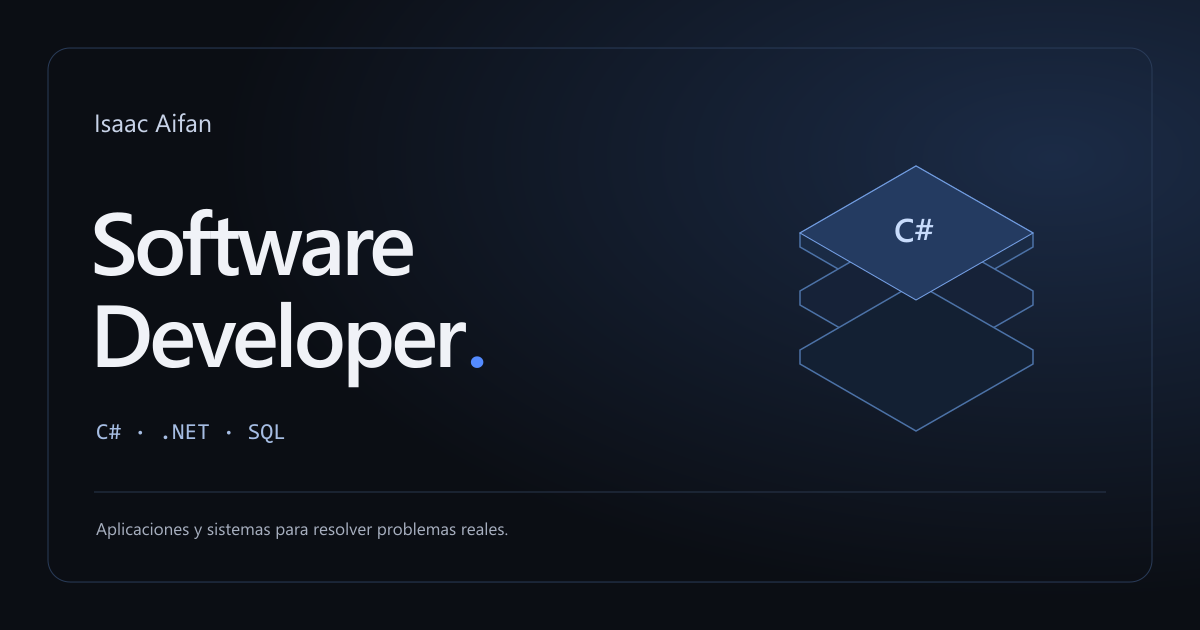
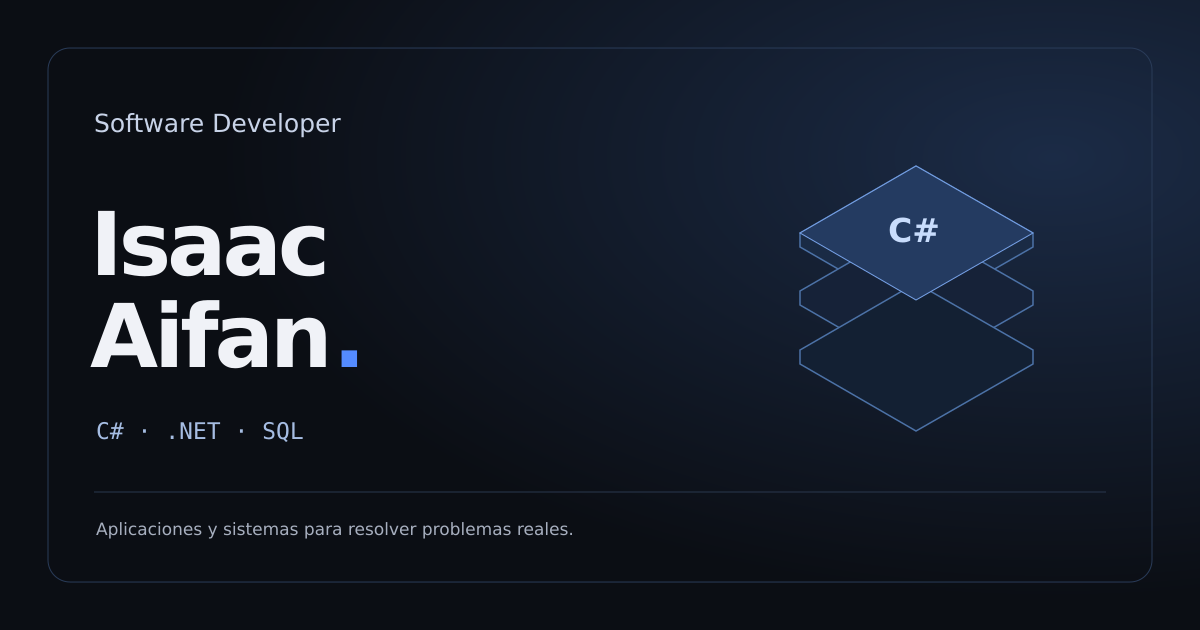
feat: refresh project states, highlight name and add ResellManager screenshots

diff --git a/index.html b/index.html
@@ -58,8 +58,9 @@
         <div class="hero-main">
           <div class="hero-copy">
             <p class="availability"><span class="status-dot" aria-hidden="true"></span> Disponible para oportunidades junior</p>
-            <p class="hero-intro">Hola, soy <strong>Isaac Aifan</strong></p>
-            <h1 id="hero-title">Software<br>Developer<span class="accent">.</span></h1>
+            <p class="hero-intro">Hola, soy</p>
+            <h1 id="hero-title">Isaac<br><span class="hero-surname">Aifan<span class="accent">.</span></span></h1>
+            <p class="hero-role">Software Developer</p>
             <p class="hero-stack">C# <span>·</span> .NET <span>·</span> SQL <span class="stack-divider" aria-hidden="true"></span><span class="stack-caption">Aplicaciones y sistemas</span></p>
             <p class="hero-description">Desarrollo aplicaciones y sistemas para resolver problemas reales. Me interesa lo que sucede detrás de la interfaz: el backend, la arquitectura y la automatización.</p>
             <div class="hero-actions">
@@ -93,27 +94,36 @@
 
         <article class="project-card project-featured reveal" aria-labelledby="resell-title" data-spotlight>
           <div class="featured-copy">
-            <div class="project-topline"><span class="project-kicker">PROYECTO PRINCIPAL</span><span class="badge badge-blue"><span class="status-dot" aria-hidden="true"></span> V1 en producción</span></div>
+            <div class="project-topline"><span class="project-kicker">PROYECTO PRINCIPAL</span><span class="badge badge-blue"><span class="status-dot" aria-hidden="true"></span> V1.4 en producción</span></div>
             <h3 id="resell-title">ResellManager<span class="accent">.</span></h3>
-            <p class="project-summary">Una plataforma para llevar el control de un negocio de reventa, desde la compra del producto hasta el cobro de la venta.</p>
+            <p class="project-summary">Una plataforma para gestionar un negocio de reventa, desde la compra hasta el cobro, con un catálogo público que conecta la operación con Virtuosa Store.</p>
             <div class="project-problem"><span class="meta-label">EL PROBLEMA</span><p>Centralizar productos, inventario, clientes y cuentas por cobrar para gestionar la operación comercial en un solo lugar.</p></div>
             <ul class="feature-list">
               <li><svg class="icon" aria-hidden="true"><use href="assets/icons/sprite.svg#check"></use></svg> Compras, recepción e inventario</li>
               <li><svg class="icon" aria-hidden="true"><use href="assets/icons/sprite.svg#check"></use></svg> Pedidos, reservas, ventas y pagos</li>
-              <li><svg class="icon" aria-hidden="true"><use href="assets/icons/sprite.svg#check"></use></svg> Autenticación privada y dashboard operativo</li>
+              <li><svg class="icon" aria-hidden="true"><use href="assets/icons/sprite.svg#check"></use></svg> Scanner de códigos de barras y alta asistida de productos</li>
+              <li><svg class="icon" aria-hidden="true"><use href="assets/icons/sprite.svg#check"></use></svg> Catálogo público, galería con zoom y filtros por categoría y marca</li>
             </ul>
-            <ul class="tech-tags" aria-label="Tecnologías de ResellManager"><li>C#</li><li>.NET 8</li><li>Blazor</li><li>EF Core</li><li>SQLite</li></ul>
+            <ul class="tech-tags" aria-label="Tecnologías de ResellManager"><li>C#</li><li>.NET 10</li><li>Blazor</li><li>EF Core</li><li>SQLite</li></ul>
             <div class="project-links">
               <a class="text-link" href="https://github.com/newton0608/ResellManager" target="_blank" rel="noopener noreferrer" aria-label="Ver repositorio de ResellManager, abre una pestaña nueva"><svg class="icon" aria-hidden="true"><use href="assets/icons/sprite.svg#github"></use></svg> Ver repositorio <svg class="icon" aria-hidden="true"><use href="assets/icons/sprite.svg#arrow-up-right"></use></svg></a>
-              <span class="project-note">Acceso privado a la aplicación</span>
-              <!-- TODO: añadir una demo pública cuando exista; no enlazar al entorno privado de producción. -->
+              <a class="text-link" href="https://virtuosagt.com/" target="_blank" rel="noopener noreferrer" aria-label="Ver el catálogo público de Virtuosa Store, abre una pestaña nueva">Ver catálogo <svg class="icon" aria-hidden="true"><use href="assets/icons/sprite.svg#arrow-up-right"></use></svg></a>
+              <span class="project-note">Administración privada · catálogo público</span>
             </div>
           </div>
-          <figure class="featured-preview">
-            <!-- TODO: sustituir por una captura real de ResellManager, sin datos de clientes. -->
-            <div class="featured-image-wrap"><img src="assets/images/resellmanager-preview.svg" alt="Vista conceptual del inventario de ResellManager. No es una captura de la aplicación." width="1080" height="900" loading="lazy" decoding="async"></div>
-            <figcaption><span class="preview-dot" aria-hidden="true"></span> Vista conceptual <span>Captura real pendiente</span></figcaption>
-          </figure>
+          <div class="featured-gallery" role="group" aria-label="Capturas reales de ResellManager">
+            <figure class="screenshot-frame">
+              <div class="browser-bar" aria-hidden="true"><span class="browser-dots"><i></i><i></i><i></i></span><span>virtuosagt.com · catálogo</span><svg class="icon"><use href="assets/icons/sprite.svg#lock"></use></svg></div>
+              <a class="screenshot-link" href="assets/images/resellmanager-catalogo.webp" target="_blank" rel="noopener noreferrer" aria-label="Ampliar captura del catálogo de ResellManager, abre una pestaña nueva"><img src="assets/images/resellmanager-catalogo.webp" alt="Catálogo real de Virtuosa Store en ResellManager, con filtros de categoría, marca y subcategorías y tarjetas de productos." width="1348" height="926" loading="lazy" decoding="async"></a>
+              <figcaption><span>Catálogo público · filtros y productos</span><span>Ampliar ↗</span></figcaption>
+            </figure>
+            <figure class="screenshot-frame">
+              <div class="browser-bar" aria-hidden="true"><span class="browser-dots"><i></i><i></i><i></i></span><span>virtuosagt.com · detalle de producto</span><svg class="icon"><use href="assets/icons/sprite.svg#lock"></use></svg></div>
+              <a class="screenshot-link" href="assets/images/resellmanager-detalle.webp" target="_blank" rel="noopener noreferrer" aria-label="Ampliar captura del detalle de producto de ResellManager, abre una pestaña nueva"><img src="assets/images/resellmanager-detalle.webp" alt="Detalle real de un producto en Virtuosa Store, con fotografía, disponibilidad, descripción y datos de presentación." width="1348" height="926" loading="lazy" decoding="async"></a>
+              <figcaption><span>Detalle de producto · imagen y disponibilidad</span><span>Ampliar ↗</span></figcaption>
+            </figure>
+            <p class="gallery-note">Capturas reales del catálogo de ResellManager · <time datetime="2026-10-13">13 oct 2026</time></p>
+          </div>
         </article>
 
         <div class="projects-grid">
@@ -124,13 +134,13 @@
               <figcaption class="image-caption">Captura del sitio publicado</figcaption>
             </figure>
             <div class="secondary-copy">
-              <div class="project-topline"><span class="project-kicker">WEB INSTITUCIONAL</span><span class="badge">Publicado</span></div>
+              <div class="project-topline"><span class="project-kicker">WEB INSTITUCIONAL</span><span class="badge badge-green">Publicado · activo</span></div>
               <h3 id="church-title">Iglesia de Cristo<br>Palabra Viva y Eficaz</h3>
               <p class="project-summary">Un sitio real, publicado y utilizado, que acerca horarios, transmisiones y discipulado a su comunidad desde cualquier dispositivo.</p>
               <ul class="feature-list">
                 <li><svg class="icon" aria-hidden="true"><use href="assets/icons/sprite.svg#check"></use></svg> Contenido dinámico y próxima reunión automática</li>
                 <li><svg class="icon" aria-hidden="true"><use href="assets/icons/sprite.svg#check"></use></svg> Integración con YouTube Data API</li>
-                <li><svg class="icon" aria-hidden="true"><use href="assets/icons/sprite.svg#check"></use></svg> Diseño responsive, dominio y despliegue en GitHub Pages</li>
+                <li><svg class="icon" aria-hidden="true"><use href="assets/icons/sprite.svg#check"></use></svg> Diseño responsive, dominio propio y mantenimiento continuo</li>
               </ul>
               <ul class="tech-tags" aria-label="Tecnologías del sitio de la iglesia"><li>HTML5</li><li>Tailwind CSS</li><li>JavaScript</li><li>APIs</li></ul>
               <div class="project-links">
@@ -153,9 +163,9 @@
               <ul class="feature-list">
                 <li><svg class="icon" aria-hidden="true"><use href="assets/icons/sprite.svg#check"></use></svg> Árboles ABB y AVL, búsquedas y recorridos</li>
                 <li><svg class="icon" aria-hidden="true"><use href="assets/icons/sprite.svg#check"></use></svg> Gestores de departamentos y municipios</li>
-                <li><svg class="icon" aria-hidden="true"><use href="assets/icons/sprite.svg#check"></use></svg> Arquitectura por capas y base de interfaz WPF</li>
+                <li><svg class="icon" aria-hidden="true"><use href="assets/icons/sprite.svg#check"></use></svg> Visualizador de árboles en WPF con zoom y desplazamiento</li>
               </ul>
-              <p class="project-note development-note">Interfaz, rutas y grafos: trabajo en desarrollo.</p>
+              <p class="project-note development-note">Visualizador implementado; integración de interfaz, rutas y grafos en desarrollo.</p>
               <ul class="tech-tags" aria-label="Tecnologías de TreeRoteGT"><li>C#</li><li>.NET 8</li><li>WPF</li><li>Algoritmos</li></ul>
               <div class="project-links">
                 <a class="text-link" href="mailto:isaac06gt@icloud.com?subject=Consulta%20sobre%20TreeRoteGT">Consultar proyecto <svg class="icon" aria-hidden="true"><use href="assets/icons/sprite.svg#arrow-up-right"></use></svg></a>
@@ -168,14 +178,26 @@
         <div class="other-projects reveal">
           <div class="other-projects-heading"><h3>Otros proyectos</h3><a class="text-link text-link-muted" href="https://github.com/newton0608?tab=repositories" target="_blank" rel="noopener noreferrer" aria-label="Explorar repositorios de GitHub, abre una pestaña nueva">Explorar GitHub <svg class="icon" aria-hidden="true"><use href="assets/icons/sprite.svg#arrow-up-right"></use></svg></a></div>
           <div class="other-projects-grid">
+            <article class="small-project">
+              <span class="small-project-icon" aria-hidden="true"><svg class="icon"><use href="assets/icons/sprite.svg#network"></use></svg></span>
+              <div><h4>DeployManager</h4><span class="small-project-status">Motor implementado</span><p>Motor para desplegar proyectos Git/Docker en un VPS, con CLI, API local, historial, comprobación de salud y rollback.</p><span class="small-project-stack">Python · FastAPI · SQLite · Docker</span><a class="text-link text-link-muted" href="mailto:isaac06gt@icloud.com?subject=Consulta%20sobre%20DeployManager">Consultar proyecto <svg class="icon" aria-hidden="true"><use href="assets/icons/sprite.svg#arrow-up-right"></use></svg></a></div>
+            </article>
+            <article class="small-project">
+              <span class="small-project-icon" aria-hidden="true"><svg class="icon"><use href="assets/icons/sprite.svg#desktop"></use></svg></span>
+              <div><h4>Atril</h4><span class="small-project-status">En validación</span><p>Aplicación de escritorio para el pastor: preview de OBS, chat de Social Stream, viewers de Streamlabs y tiempo real de transmisión.</p><span class="small-project-stack">Electron · React · TypeScript · OBS WebSocket</span><a class="text-link text-link-muted" href="mailto:isaac06gt@icloud.com?subject=Consulta%20sobre%20Atril">Consultar proyecto <svg class="icon" aria-hidden="true"><use href="assets/icons/sprite.svg#arrow-up-right"></use></svg></a></div>
+            </article>
+            <article class="small-project">
+              <span class="small-project-icon" aria-hidden="true"><svg class="icon"><use href="assets/icons/sprite.svg#video"></use></svg></span>
+              <div><h4>StreamConsole</h4><span class="small-project-status">Demo funcional · validación física pendiente</span><p>Consola local con macros e integraciones de OBS, ATEM y Holyrics, con control adaptado a un iPhone 5s.</p><span class="small-project-stack">C# · .NET 8 · API REST · SSE</span><a class="text-link text-link-muted" href="mailto:isaac06gt@icloud.com?subject=Consulta%20sobre%20StreamConsole">Consultar proyecto <svg class="icon" aria-hidden="true"><use href="assets/icons/sprite.svg#arrow-up-right"></use></svg></a></div>
+            </article>
             <a class="small-project" href="https://github.com/newton0608/502FerreSA" target="_blank" rel="noopener noreferrer" aria-label="Ver repositorio de Ferre502SA, abre una pestaña nueva">
               <span class="small-project-icon" aria-hidden="true"><svg class="icon"><use href="assets/icons/sprite.svg#desktop"></use></svg></span>
-              <div><h4>Ferre502SA</h4><p>Sistema de escritorio para una ferretería, con inventarios, ventas y envíos.</p><span class="small-project-stack">C# · WinForms · SQL Server</span></div>
+              <div><h4>Ferre502SA</h4><span class="small-project-status">Proyecto académico</span><p>Sistema de escritorio para una ferretería, con inventarios, ventas y envíos.</p><span class="small-project-stack">C# · WinForms · SQL Server</span></div>
               <svg class="icon small-project-arrow" aria-hidden="true"><use href="assets/icons/sprite.svg#arrow-up-right"></use></svg>
             </a>
             <a class="small-project" href="https://github.com/newton0608/currency-converter" target="_blank" rel="noopener noreferrer" aria-label="Ver repositorio de Currency Converter, abre una pestaña nueva">
               <span class="small-project-icon" aria-hidden="true"><svg class="icon"><use href="assets/icons/sprite.svg#exchange"></use></svg></span>
-              <div><h4>Currency Converter</h4><p>Conversor de monedas con tasas de una API, en consola y con interfaz gráfica.</p><span class="small-project-stack">Python · Tkinter · API REST</span></div>
+              <div><h4>Currency Converter</h4><span class="small-project-status">Implementado</span><p>Conversor de monedas con tasas de una API, en consola y con interfaz gráfica.</p><span class="small-project-stack">Python · Tkinter · API REST</span></div>
               <svg class="icon small-project-arrow" aria-hidden="true"><use href="assets/icons/sprite.svg#arrow-up-right"></use></svg>
             </a>
           </div>
@@ -210,9 +232,9 @@
         </div>
         <div class="technology-groups reveal">
           <div class="technology-group"><h3>Desktop</h3><ul><li>WPF</li><li>WinForms</li></ul></div>
-          <div class="technology-group"><h3>Web</h3><ul><li>HTML5</li><li>CSS3</li><li>JavaScript</li><li>ASP.NET</li></ul></div>
+          <div class="technology-group"><h3>Web</h3><ul><li>HTML5</li><li>CSS3</li><li>JavaScript</li><li>ASP.NET</li><li>Blazor</li><li>React / TypeScript</li></ul></div>
           <div class="technology-group"><h3>Datos</h3><ul><li>SQL Server</li><li>PostgreSQL</li><li>SQLite</li></ul></div>
-          <div class="technology-group"><h3>Herramientas</h3><ul><li>Git / GitHub</li><li>Visual Studio</li><li>APIs REST</li><li>Linux / VPS</li><li>Hosting y dominios</li></ul></div>
+          <div class="technology-group"><h3>Herramientas</h3><ul><li>Git / GitHub</li><li>Visual Studio</li><li>APIs REST</li><li>Linux / VPS</li><li>Docker / Compose</li><li>Hosting y dominios</li></ul></div>
         </div>
         <p class="additional-tech reveal"><span>También trabajo y aprendo con</span> C++ <span class="accent" aria-hidden="true">/</span> Python</p>
       </section>

diff --git a/css/styles.css b/css/styles.css
@@ -57,7 +57,7 @@ main:focus { outline: none; }
 .brand { display: inline-flex; align-items: center; gap: 12px; flex-shrink: 0; }
 .brand-mark { display: inline-flex; align-items: center; justify-content: center; width: 36px; height: 36px; border: 1px solid #344567; background: #121c2d; border-radius: 10px; font-size: 23px; font-weight: 800; letter-spacing: -1.8px; line-height: 1; }
 .brand-mark span { color: var(--accent); }
-.brand-name { font-size: 14px; font-weight: 650; letter-spacing: -.3px; }
+.brand-name { font-size: 17px; font-weight: 750; letter-spacing: -.3px; }
 .nav-menu { display: flex; align-items: center; gap: 28px; }
 .nav-link { display: inline-flex; align-items: center; gap: 12px; min-height: 44px; font-size: 12px; color: var(--text-secondary); transition: color var(--transition); }
 .nav-link:hover, .nav-link.is-active { color: var(--text); }
@@ -102,8 +102,9 @@ h2 { font-size: clamp(32px, 3.55vw, 46px); font-weight: 650; letter-spacing: -1.
 .hero-main { display: grid; grid-template-columns: 1.13fr 1fr; align-items: center; gap: 26px; padding-bottom: 64px; }
 .availability { display: inline-flex; align-items: center; gap: 10px; border: 1px solid #29374e; background: #101824; border-radius: 30px; padding: 7px 13px; color: #b3c1d8; font-size: 10px; letter-spacing: .15px; margin-bottom: 35px; }
 .hero-intro { font-size: 15px; color: var(--text-secondary); margin-bottom: 15px; }
-.hero-intro strong { font-weight: 650; color: var(--text); }
-h1 { font-size: clamp(58px, 6.7vw, 88px); font-weight: 750; line-height: 1.05; letter-spacing: -4.7px; margin-left: -4px; }
+.hero-surname { color: var(--accent-light); }
+.hero-role { margin-top: 20px; font-size: clamp(23px, 2.6vw, 32px); font-weight: 600; line-height: 1.25; letter-spacing: -.9px; color: var(--text-secondary); }
+h1 { font-size: clamp(68px, 7.7vw, 104px); font-weight: 750; line-height: 1.05; letter-spacing: -4.7px; margin-left: -4px; }
 .hero-stack { display: flex; align-items: center; gap: 12px; margin-top: 25px; font-size: 15px; font-weight: 550; }
 .hero-stack > span:not(.stack-caption) { color: var(--text-muted); }
 .stack-divider { width: 1px; height: 15px; background: var(--border); margin-inline: 3px; }
@@ -146,11 +147,19 @@ h1 { font-size: clamp(58px, 6.7vw, 88px); font-weight: 750; line-height: 1.05; l
 .project-links { display: flex; flex-wrap: wrap; align-items: center; gap: 12px 24px; border-top: 1px solid var(--border); margin-top: 24px; padding-top: 10px; }
 .project-note { color: var(--text-muted); font-size: 9px; }
 .featured-copy .project-note { margin-left: auto; }
-.featured-preview { display: flex; flex-direction: column; justify-content: center; padding: 27px 0 24px 15px; overflow: hidden; background: radial-gradient(ellipse at 70% 40%, #1c2c47 0%, transparent 68%); border-left: 1px solid #253147; }
-.featured-image-wrap { transform: perspective(1200px) rotateY(-8deg) rotateX(3deg) rotateZ(2deg); width: 112%; margin-left: 13px; filter: drop-shadow(-12px 20px 18px rgb(0 0 0 / 20%)); }
-.featured-preview figcaption { display: flex; flex-wrap: wrap; align-items: center; gap: 8px; padding: 18px 26px 0; color: #b2c0d5; font-size: 9px; }
-.featured-preview figcaption > span:last-child { margin-left: auto; color: var(--text-muted); }
-.preview-dot { display: inline-block; width: 5px; height: 5px; background: #7999c7; border-radius: 50%; }
+/* Actual screenshots stay flat and uncropped for legibility. */
+.featured-gallery { display: grid; align-content: center; gap: 16px; min-width: 0; padding: 24px; border-left: 1px solid #253147; background: radial-gradient(ellipse at 70% 40%, #1c2c47 0%, transparent 68%); }
+.screenshot-frame { overflow: hidden; border: 1px solid #35435a; border-radius: 10px; background: #141c29; }
+.screenshot-link { display: block; }
+.screenshot-link img { width: 100%; height: auto; }
+.screenshot-link:focus-visible { outline-offset: -3px; }
+.screenshot-frame figcaption { display: flex; flex-wrap: wrap; justify-content: space-between; gap: 8px; padding: 10px 13px; font-size: 9px; color: #b2c0d5; }
+.screenshot-frame figcaption > span:last-child { color: var(--accent-light); }
+.gallery-note { color: var(--text-muted); font-size: 9px; text-align: center; }
+.badge-green { color: #a3dbc1; border-color: #315345; background: rgb(46 124 87 / 8%); }
+.small-project-status { display: block; color: var(--accent-light); font-size: 10px; line-height: 1.6; margin-bottom: 10px; }
+.small-project > div { min-width: 0; }
+.small-project .text-link { display: flex; width: fit-content; margin-top: 8px; font-size: 11px; }
 .projects-grid { display: grid; grid-template-columns: repeat(2, minmax(0, 1fr)); gap: 24px; margin-top: 24px; }
 .project-secondary { display: flex; flex-direction: column; }
 .project-image { position: relative; margin: 16px 16px 0; border: 1px solid #2c3545; border-radius: 10px; overflow: hidden; background: #101724; }
@@ -321,7 +330,7 @@ h1 { font-size: clamp(58px, 6.7vw, 88px); font-weight: 750; line-height: 1.05; l
   .nav-is-enhanced .nav-contact { margin-top: 6px; }
   .hero { padding-top: 56px; }
   .hero-main { grid-template-columns: 1fr 0.85fr; }
-  h1 { font-size: clamp(53px, 7.8vw, 64px); letter-spacing: -3.4px; }
+  h1 { font-size: clamp(62px, 8.8vw, 76px); letter-spacing: -3.4px; }
   .hero-intro { font-size: 13px; }
   .availability { font-size: 8px; gap: 8px; padding: 7px 10px; margin-bottom: 27px; }
   .hero-stack { font-size: 13px; margin-top: 22px; }
@@ -341,12 +350,10 @@ h1 { font-size: clamp(58px, 6.7vw, 88px); font-weight: 750; line-height: 1.05; l
   h2 { font-size: 36px; letter-spacing: -1.5px; }
   .eyebrow { margin-bottom: 18px; font-size: 10px; }
   .project-featured { grid-template-columns: 1fr; }
+  .featured-gallery { border-left: 0; border-top: 1px solid #253147; padding: 24px; }
   .featured-copy { padding: 32px; }
   .featured-copy h3 { font-size: 35px; }
   .featured-copy .project-note { margin-left: auto; }
-  .featured-preview { padding: 12px 24px 24px; border-left: 0; border-top: 1px solid #253147; }
-  .featured-image-wrap { width: 90%; margin-inline: auto; transform: perspective(1200px) rotateX(2deg) rotateY(-3deg) rotateZ(1deg); }
-  .featured-preview figcaption { padding-top: 2px; }
   .projects-grid { gap: 18px; margin-top: 18px; }
   .project-image { margin: 12px 12px 0; }
   .browser-bar { font-size: 7px; }
@@ -399,7 +406,7 @@ h1 { font-size: clamp(58px, 6.7vw, 88px); font-weight: 750; line-height: 1.05; l
   .hero-main { grid-template-columns: 1fr; padding-bottom: 28px; }
   .availability { font-size: 9px; margin-bottom: 29px; }
   .hero-intro { font-size: 14px; }
-  h1 { font-size: clamp(52px, 12.8vw, 75px); letter-spacing: -3.5px; }
+  h1 { font-size: clamp(66px, 16vw, 86px); letter-spacing: -3.5px; }
   .hero-stack { font-size: 14px; margin-top: 22px; }
   .hero-description { font-size: 14px; max-width: 440px; margin-top: 19px; }
   .hero-actions { margin-top: 25px; gap: 10px; }
@@ -416,6 +423,8 @@ h1 { font-size: clamp(58px, 6.7vw, 88px); font-weight: 750; line-height: 1.05; l
   .eyebrow { font-size: 9px; letter-spacing: 1px; }
   .section-description { font-size: 13px; margin-top: 18px; }
   .featured-copy { padding: 25px; }
+  .featured-gallery { padding: 16px; gap: 14px; }
+  .hero-role { margin-top: 16px; font-size: 24px; }
   .project-topline { gap: 10px; }
   .project-featured h3 { font-size: 31px; letter-spacing: -1.2px; margin-top: 23px; }
   .project-summary { font-size: 13px; }
@@ -424,10 +433,6 @@ h1 { font-size: clamp(58px, 6.7vw, 88px); font-weight: 750; line-height: 1.05; l
   .tech-tags { gap: 6px; }
   .tech-tags li { font-size: 9px; }
   .featured-copy .project-note { margin-left: 0; }
-  .featured-preview { padding: 10px 12px 19px; }
-  .featured-image-wrap { width: 105%; margin-left: -2%; }
-  .featured-preview figcaption { gap: 7px; padding-inline: 12px; font-size: 8px; }
-  .featured-preview figcaption > span:last-child { margin-left: 0; }
   .projects-grid { grid-template-columns: 1fr; gap: 20px; margin-top: 20px; }
   .project-image { margin: 12px 12px 0; }
   .browser-bar { font-size: 8px; }
@@ -523,7 +528,6 @@ h1 { font-size: clamp(58px, 6.7vw, 88px); font-weight: 750; line-height: 1.05; l
   .hero { padding-top: 0; }
   .hero-main, .project-featured, .about-grid, .contact-panel { grid-template-columns: 1fr; }
   .project-card, .core-card, .operation-card, .education-panel, .contact-panel, .section-tinted { background: #fff; color: #111; box-shadow: none; }
-  .featured-preview { display: none; }
   .reveal.reveal-pending { opacity: 1; transform: none; }
   .project-card, .education-panel { break-inside: avoid; }
 }

diff --git a/docs/PROJECTS.md b/docs/PROJECTS.md
@@ -1,18 +1,20 @@
 # Fuentes y alcance de los proyectos
 
-Revisión realizada el 1 de octubre de 2026. Los datos de educación, intereses y experiencia complementaria proceden del encargo. El correo y LinkedIn se conservaron del portafolio original.
+Revisión actualizada el 13 de octubre de 2026. Los datos de educación, intereses y experiencia complementaria proceden del encargo. El correo y LinkedIn se conservaron del portafolio original.
 
 ## ResellManager
 
 [Repositorio público](https://github.com/newton0608/ResellManager).
 
-Fuentes revisadas: `README.md`, `CHANGELOG.md`, `docs/07_Arquitectura.md`, archivos de proyecto y estructura de componentes. Árbol consultado: `832c1728d7a3447ef172a9b0c96c47f89cad39cc`.
+Fuentes revisadas: `README.md`, `CHANGELOG.md` de `main` (blob `bea18bc76485bc3b8758006c62002c0033200626`), arquitectura y catálogo público de Virtuosa Store.
 
-- La documentación declara V1 en producción y autenticación privada.
-- Implementa clientes, productos/categorías, proveedores, compras/comprobantes, recepción/inventario, pedidos/reservas, ventas/pagos y dashboard.
-- Stack documentado: C#, .NET 8, ASP.NET Core Blazor Web App, EF Core, SQLite e Identity.
-- No se atribuye SQL Server a este proyecto. SQL Server se presenta como parte del perfil general y del proyecto Ferre502SA.
-- No se inventa una demo pública ni se enlaza a la aplicación privada. Imagen conceptual, pendiente de captura real.
+- V1.4 está integrada en main/develop y el changelog confirma el despliegue en producción del 12 de octubre de 2026; sigue sin tag/Release propio. La tarjeta describe la versión funcional, no inventa un tag.
+- C#, .NET 10, Blazor, EF Core, SQLite e Identity. La migración a .NET 10 está documentada desde v1.2.0.
+- Compras, inventario, pedidos internos, ventas/pagos, scanner y búsqueda asistida están implementados.
+- Catálogo público: galerías, zoom, filtros por categorías/subcategorías y marcas, carga incremental y consulta opcional por WhatsApp. No se anuncia checkout ni creación de pedidos web.
+- Se enlaza al catálogo público `https://virtuosagt.com/`; la administración sigue privada.
+- `resellmanager-catalogo.webp` y `resellmanager-detalle.webp`: capturas reales del 13 de octubre, 1348 × 926 px, convertidas a WebP sin recortar ni alterar la interfaz. La primera muestra Salud y bienestar; la segunda el producto Centrum Silver Men 50+ (`https://virtuosagt.com/producto/15`). Los importes Q0.00 son los que mostraba el catálogo en ese momento.
+- La revisión visual de las capturas confirma que muestran solo datos públicos de productos, sin clientes, credenciales o información administrativa.
 
 ## Iglesia de Cristo Palabra Viva y Eficaz
 
@@ -28,10 +30,10 @@ Fuentes: `README.md`, `package.json`, `scripts/site.js` y sitio publicado, abier
 
 [Repositorio privado](https://github.com/newton0608/TreeRoteGT), consultado con la conexión autorizada. No se publica su código en este portafolio.
 
-Fuentes: `Estructuras/ABB.cs`, `Estructuras/AVL.cs`, `Negocio/Gestores/`, `Pruebas/Program.cs`, proyecto WPF y ViewModels. Árboles genéricos, rotaciones AVL, búsqueda, recorridos y gestores de departamentos/municipios están implementados. Los ViewModels revisados de departamentos, ABB y grafos son bases vacías; no se anuncian una interfaz completa ni algoritmos de rutas implementados.
+Fuentes: `Estructuras/ABB.cs`, `Estructuras/AVL.cs`, `Negocio/Gestores/`, `Pruebas/Program.cs`, proyecto WPF y ViewModels. Árboles genéricos, rotaciones AVL, búsqueda, recorridos y gestores de departamentos/municipios están implementados. La revisión del commit `8678804` y de `Presentación/Controls/TreeVisualizerControl.xaml.cs` confirma un visualizador de nodos con zoom y desplazamiento. `ABBViewModel.cs` sigue siendo una base vacía; no se anuncian una interfaz integrada completa ni algoritmos de rutas implementados.
 
-- C#, .NET 8, base WPF y arquitectura por capas.
-- Estado visible: en desarrollo. Interfaz, rutas y grafos se indican como trabajo en desarrollo.
+- C#, .NET 8, WPF y arquitectura por capas.
+- Estado visible: en desarrollo. Se reconoce el visualizador implementado y se distingue de la integración de interfaz, rutas y grafos pendientes.
 - El enlace de código está marcado como privado y requiere acceso. Se ofrece contacto por correo como alternativa accesible al visitante.
 - El diagrama es conceptual y no simula una captura de una interfaz terminada.
 
@@ -46,3 +48,15 @@ Fuentes: `README.md`, solución y estructura `CapaDatos`, `CapaLogica`, `CapaPre
 [Repositorio público](https://github.com/newton0608/currency-converter).
 
 Fuente: `README.md` y estructura `main.py`/`gui.py`. Documenta Python, API de tasas de cambio, consola y Tkinter. Se presenta como otro repositorio relevante sin añadir funcionalidades ajenas a su documentación.
+
+## DeployManager, Atril y StreamConsole
+
+Se revisaron los README actuales de los tres repositorios privados con la conexión autorizada. El portafolio describe su propósito y stack sin publicar código, configuraciones ni enlaces con sesiones privadas.
+
+| Proyecto | Estado presentado | Alcance verificado |
+| --- | --- | --- |
+| DeployManager | Motor implementado | Python/FastAPI/SQLite, CLI y API local, Git/Docker, historial, health checks y rollback. El README de main no incluye un panel web. |
+| Atril | En validación | Electron/React/TypeScript, ventanas de Control y Display, preview, Social Stream, Streamlabs y tiempo de OBS WebSocket. El README requiere verificación física en la PC de producción. |
+| StreamConsole | Demo funcional; validación física pendiente | .NET 8, API REST/SSE, macros y proveedores OBS/ATEM/Holyrics; control 320 × 568. El README distingue pruebas con mocks de equipos reales. |
+
+Ferre502SA se marca como proyecto académico; Currency Converter como implementado, sin atribuir despliegue o mantenimiento continuo no documentado.

diff --git a/README.md b/README.md
@@ -20,7 +20,7 @@ css/styles.css            Variables, componentes y responsive
 js/main.js                Menú, observadores, año y copiar correo
 assets/fonts/             Manrope variable y licencia OFL
 assets/icons/             Favicon e iconos SVG locales
-assets/images/            Ilustraciones, captura y Open Graph
+assets/images/            Ilustraciones, capturas reales y Open Graph
 docs/PROJECTS.md          Fuentes y alcance de los proyectos
 docs/QA.md                Validación de la implementación
 scripts/serve.mjs          Vista previa local sin dependencias
@@ -37,14 +37,21 @@ Las rutas de los recursos son relativas para funcionar en un sitio de proyecto c
 - Las animaciones respetan `prefers-reduced-motion`. Sin JavaScript, contenido y enlaces siguen visibles; el menú se muestra expandido.
 - Tailwind aparece únicamente como tecnología del proyecto de la iglesia. No se utiliza para construir este portafolio.
 
+## Estado del contenido — 13 de octubre de 2026
+
+- El nombre es el título principal de la portada; Software Developer queda como subtítulo.
+- ResellManager se presenta como V1.4 en producción, con .NET 10, scanner y catálogo público de Virtuosa Store.
+- Las capturas reales `resellmanager-catalogo.webp` y `resellmanager-detalle.webp` muestran el catálogo público; se amplían mediante enlaces normales y funcionan sin JavaScript. Cada una pesa menos de 70 KB y conserva el viewport completo de 1348 × 926 px.
+- Se añaden DeployManager, Atril y StreamConsole con estados diferenciados. Sus repositorios son privados y los visitantes pueden consultar por correo.
+- TreeRoteGT conserva su estado en desarrollo, reconociendo el visualizador con zoom/desplazamiento que ya está implementado.
+
 ## Pendientes de contenido
 
-1. **ResellManager:** sustituir `assets/images/resellmanager-preview.svg` por una captura real sin datos de clientes; actualizar `src`, dimensiones, `alt` y leyenda. La ilustración actual está identificada como vista conceptual. Añadir una demo solo si existe un entorno público: la producción requiere autenticación.
-2. **TreeRoteGT:** sustituir `assets/images/treerotegt-preview.svg` cuando haya una captura de la interfaz. Actualmente el proyecto es privado; su enlace requiere acceso. La interfaz, los grafos y las rutas siguen en desarrollo y se presentan de esa forma.
-3. **CV:** al disponer de un PDF revisado, guardarlo como `assets/cv/Isaac-Aifan-CV.pdf` y añadir un enlace con `download` en `.hero-actions`. El punto de inserción está comentado; no hay un botón que apunte a un archivo inexistente.
-4. Si cambia el dominio del portafolio, actualizar `canonical`, `og:url`, `og:image` y `twitter:image` en `index.html`, además de `robots.txt` y `sitemap.xml`.
+1. **TreeRoteGT:** sustituir `assets/images/treerotegt-preview.svg` cuando haya una captura de la interfaz. El visualizador existe; su integración con las pantallas, rutas y grafos sigue en desarrollo. El repositorio es privado.
+2. **CV:** al disponer de un PDF revisado, guardarlo como `assets/cv/Isaac-Aifan-CV.pdf` y añadir un enlace con `download` en `.hero-actions`. El punto de inserción está comentado.
+3. Si cambia el dominio del portafolio, actualizar `canonical`, `og:url`, `og:image` y `twitter:image` en `index.html`, además de `robots.txt` y `sitemap.xml`.
 
-La imagen Open Graph es `assets/images/og-cover.png`; su fuente editable es `og-cover.svg`. La captura del sitio de la iglesia se guardó localmente el 1 de octubre de 2026.
+La imagen Open Graph es `assets/images/og-cover.png`; su fuente editable es `og-cover.svg`. La captura de la iglesia se guardó el 1 de octubre de 2026 y las de ResellManager el 13 de octubre de 2026. Solo contienen vistas públicas, sin datos de clientes ni información del panel administrativo.
 
 ## GitHub Pages
 

diff --git a/docs/QA.md b/docs/QA.md
@@ -62,4 +62,15 @@ El historial original se conserva. La comprobación se refiere a los archivos de
 
 ## Pendientes de contenido
 
-Capturas reales de ResellManager y TreeRoteGT, CV revisado y una demo pública de ResellManager si se habilita. Los puntos de reemplazo y el alcance verificado están documentados en `README.md` y `docs/PROJECTS.md`.
+Captura real de TreeRoteGT y CV revisado. Las capturas reales de ResellManager y el enlace al catálogo público se añadieron el 13 de octubre de 2026. Los puntos de reemplazo y el alcance verificado están documentados en `README.md` y `docs/PROJECTS.md`.
+
+## Actualización del 13 de octubre de 2026
+
+Se conserva arriba la revisión histórica del 1 de octubre; sus pruebas de navegador y axe no se presentan como una nueva ejecución.
+
+- Nombre como h1 de la portada y subtítulo profesional; estilos adaptados a los breakpoints existentes.
+- Capturas del catálogo y detalle público de ResellManager inspeccionadas visualmente y optimizadas a WebP; ambas conservan 1348 × 926 px, dimensiones explícitas, alt descriptivo, lazy loading y enlaces de ampliación disponibles sin JavaScript.
+- Estados y stack contrastados con la documentación actual de los proyectos; se distingue producción, implementación y validación física.
+- Comprobaciones estáticas: un h1/main, IDs únicos, destinos internos, recursos locales, símbolos SVG, dimensiones de imágenes, enlaces externos con noopener/noreferrer, sintaxis JavaScript y `git diff --check`. Los nuevos estilos reutilizan los breakpoints de 800 y 600 px; no se afirma haber comprobado su renderizado responsive en esta actualización.
+- Límite de verificación: no se repitió QA visual/responsive ni axe del portafolio en navegador. Este entorno no dispone de la habilidad control-browser requerida por la vista previa gestionada. No se arranca un servidor alternativo ni se modifica el despliegue.
+- El trabajo se mantiene en `feature/portfolio-v2`; no se fusiona con main ni se cambia Pages.
